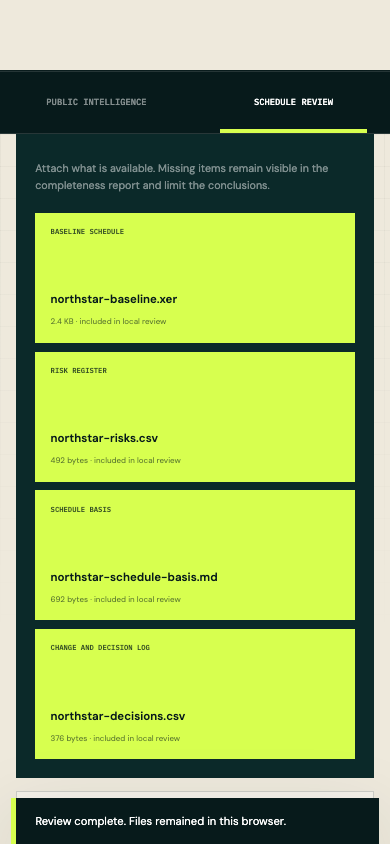
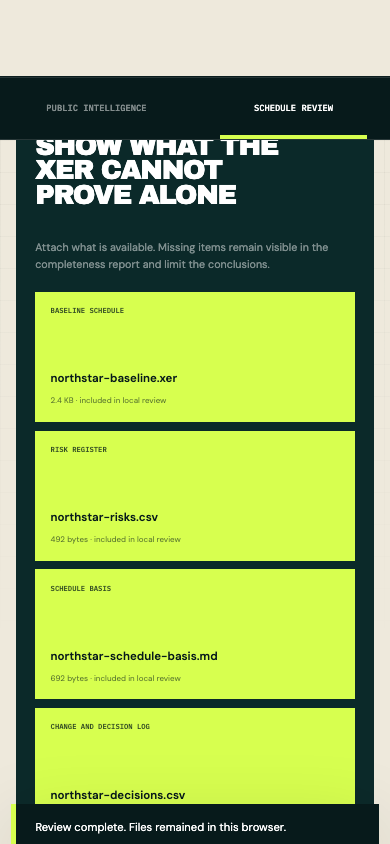
Align XER demo proof points

Changed region(s): [[0.0, 0.0616, 1.0, 0.9858], [0.0, 0.154, 0.0615, 0.1848]]

diff --git a/Processing/tests/browser_xer_review.py b/Processing/tests/browser_xer_review.py
@@ -42,7 +42,7 @@ def run_desktop(browser):
     page.locator("#reviewResults").wait_for(state="visible")
     assert page.locator("#reviewProjectName").inner_text() == "NORTHSTAR GRID CONNECTION"
     assert page.locator("#finishMovement").inner_text() == "+73d"
-    assert int(page.locator("#materialChangeCount").inner_text()) >= 5
+    assert page.locator("#materialChangeCount").inner_text() == "9"
     assert int(page.locator("#contradictionCount").inner_text()) >= 2
     assert page.locator("#questionList .question-card").count() >= 3
     assert page.locator("#evidenceCoverage").inner_text() == "9/11"
@@ -53,9 +53,10 @@ def run_desktop(browser):
     assert page.locator("#decisionReconciliation article.unlinked").count() >= 1
     assert "NS-900" in page.locator("#baselineMovementList").inner_text()
     assert "REPEATED OR WORSENED" in page.locator("#followThroughList").inner_text().upper()
-    assert "raw changes" in page.locator("#materialFunnelCopy").inner_text().lower()
+    funnel = page.locator("#materialFunnelCopy").inner_text()
+    assert "22 raw changes → 9 material → 8 executive priorities" in funnel
     executive_change_count = page.locator("#changeList .change-row").count()
-    assert 5 <= executive_change_count <= 10
+    assert executive_change_count == 8
 
     page.get_by_role("button", name="Analyst", exact=True).click()
     assert page.locator("#fitnessGrid .fitness-item").count() == 7
@@ -73,8 +74,9 @@ def run_desktop(browser):
     assert download_info.value.suggested_filename.endswith("-schedule-review.json")
     pack = json.loads(Path(download_info.value.path()).read_text())
     assert pack["completeness"]["presentCount"] == 9
-    assert pack["rawChangeCount"] > len(pack["materialChanges"])
-    assert len(pack["executivePriorities"]) <= 10
+    assert pack["rawChangeCount"] == 22
+    assert len(pack["materialChanges"]) == 9
+    assert len(pack["executivePriorities"]) == 8
     assert pack["executivePriorities"]
     assert pack["pathCandidates"]
     assert pack["decisionReconciliation"]

diff --git a/LINKEDIN_LAUNCH.md b/LINKEDIN_LAUNCH.md
@@ -19,7 +19,7 @@ The browser-local workflow now:
 - challenges the status narrative against the schedule evidence
 - checks whether a previous intervention resolved, improved or repeated in the next submission
 
-In the synthetic Northstar demo, it reduces 21 raw changes to 9 material priorities, identifies a 73-day finish movement and reports 9 of 11 evidence classes present. The two missing classes remain visible rather than being silently ignored.
+In the synthetic Northstar demo, it reduces 22 raw changes to 9 material changes and an 8-item executive queue, identifies a 73-day finish movement and reports 9 of 11 evidence classes present. The two missing classes remain visible rather than being silently ignored.
 
 The calculations are deterministic and inspectable. The scores prioritise human review. They are not probabilities of failure, delay attribution or a replacement for validated CPM and quantitative risk analysis.
 
@@ -47,7 +47,7 @@ The ready-to-post [silent MP4 product walkthrough](docs/assets/projectlens-evide
 3. Run the synthetic Northstar evidence kit
 4. Reveal the 9 of 11 completeness result and 73-day finish movement
 5. Show the narrative challenge, exported-float path view, decision trace and baseline comparison
-6. Show 21 raw changes reduced to 9 material priorities
+6. Show 22 raw changes reduced to 9 material changes and 8 executive priorities
 7. Open one evidence-linked change
 8. Show intervention follow-through, the local action log and the model boundary
 

diff --git a/README.md b/README.md
@@ -98,7 +98,7 @@ Evidence coverage is reported separately from schedule quality. A missing baseli
 Open [the live schedule evidence review](https://matthewpaver.github.io/ProjectLens/schedule-review.html) and select **Run the Northstar demo**. The synthetic pair is safe to share and intentionally contains:
 
 - a 73-day project finish movement
-- 21 raw changes reduced to 9 material executive priorities
+- 22 raw changes reduced to 9 material changes and 8 executive priorities
 - a separate baseline, risk register, schedule basis and decision log
 - changed logic, constraints, float erosion and integrity findings
 - an approved change, an unlinked change and a deferred decision